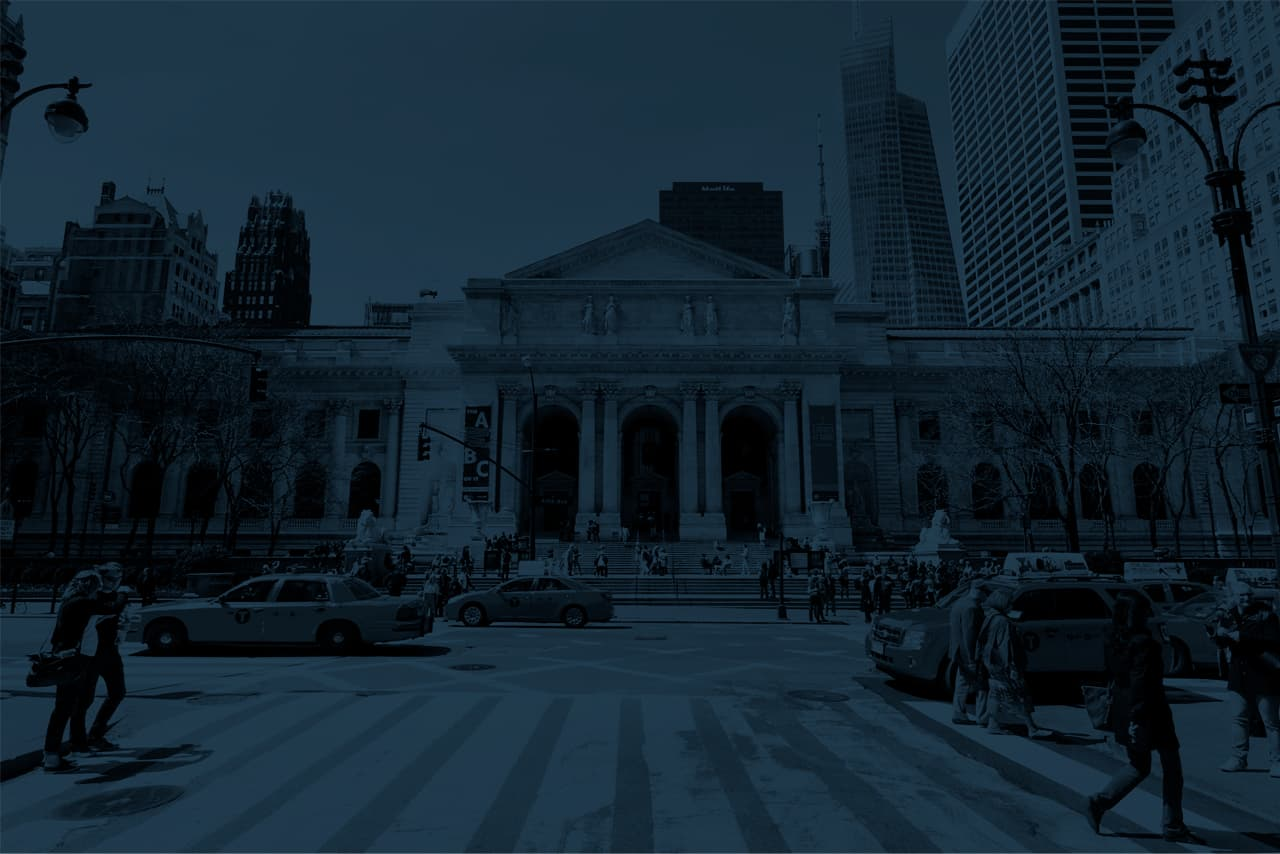
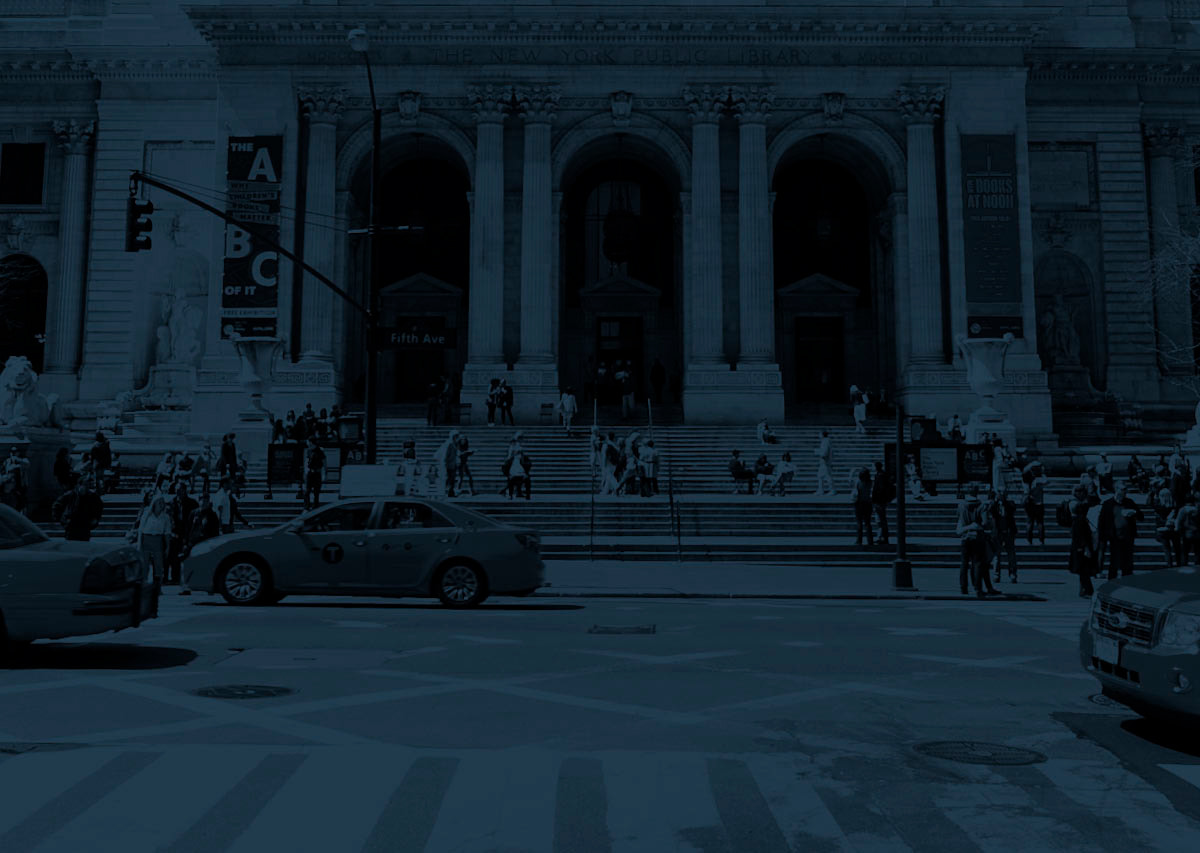
Ретинизация фона в промоблоке

diff --git a/source/sass/blocks/background.scss b/source/sass/blocks/background.scss
@@ -1,68 +1,26 @@
 .background--main-image {
-  background-image: url("../img/back-desktop.jpg");
-  background-position: center;
-  background-size: 729px auto;
-  background-repeat: no-repeat;
+  background-size: 100%;
+  background-image: url("../img/back-mobile.jpg");
+  background-position: 0 top;
 
-  @media (min-width: $tablet-width) {
-    background-size: 1200px auto;
-  }
-
-  @media (min-width: $desktop-width) {
-    background-size: 2560px auto;
-  }
-}
-
-.background--main-image--offer {
-  @media (max-width: $mobile-width-only) {
-    background-position: 50% -36%;
-    background-size: 830px auto;
+  @media (min-resolution: 2dppx) {
+    background-image: url("../img/back-mobile@2x.jpg");
   }
 
   @media (min-width: $tablet-width) {
-    background-size: 1280px auto;
-    background-position: 50% 100%;
+    background-image: url("../img/back-tablet.jpg");
+
+    @media (min-resolution: 2dppx) {
+      background-image: url("../img/back-tablet@2x.jpg");
+    }
   }
 
   @media (min-width: $desktop-width) {
-    background-size: 226%;
-    background-position: 50% 76%;
+    background-image: url("../img/back-desktop.jpg");
     background-repeat: repeat;
-  }
-}
 
-.background--main-image--contest {
-  @media (max-width: $mobile-width-only) {
-    background-position: 50% 35%;
-    background-size: 830px auto;
-  }
-
-  @media (min-width: $tablet-width) {
-    background-size: 1280px auto;
-    background-position: 50% 56%;
-  }
-
-  @media (min-width: $desktop-width) {
-    background-size: 227%;
-    background-position: 50% 59%;
-    background-repeat: repeat;
-  }
-}
-
-.background--main-image--catalog {
-  @media (max-width: $mobile-width-only) {
-    background-position: 50% 48%;
-    background-size: 830px auto;
-  }
-
-  @media (min-width: $tablet-width) {
-    background-size: 1280px auto;
-    background-position: 50% 67%;
-  }
-
-  @media (min-width: $desktop-width) {
-    background-size: 227%;
-    background-position: 50% 62%;
-    background-repeat: repeat;
+    @media (min-resolution: 2dppx) {
+      background-image: url("../img/back-desktop@2x.jpg");
+    }
   }
 }
